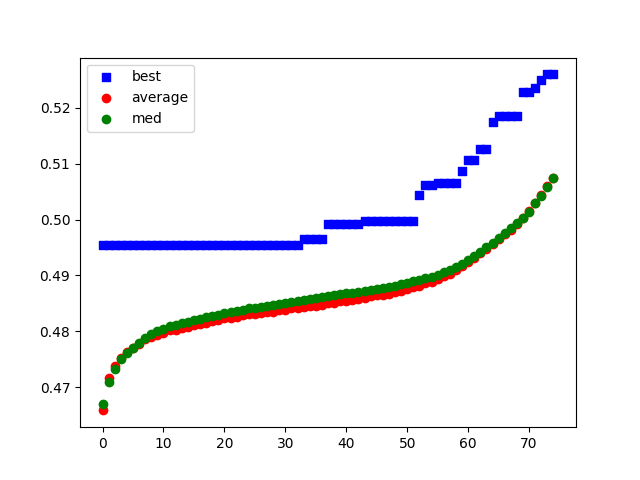
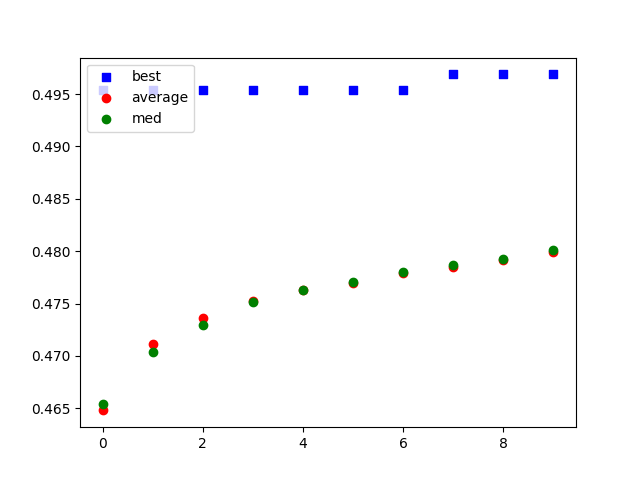
reorganize metrics

diff --git a/genetic_algorithm/initial_population_generator.py b/genetic_algorithm/initial_population_generator.py
@@ -10,31 +10,8 @@ from genetic_algorithm.population import Population
 from genetic_algorithm.chromosome import Chromosome
 from genetic_algorithm.fitness_function import evaluate_network 
 from genetic_algorithm.breeder import breed_networks
-
-class NetworkMetrics:
-    def __init__(self, network: TransitNetwork):
-        self.network = network
-        self.network_id = network.id
-        self.route_ids = [r.id for r in network.routes]
-        self.trip_ids = [t.id for t in network.trips]
-        self.stop_ids = [s.id for s in network.stops]
-
-    @property 
-    def fitness(self):
-        return evaluate_network(self.network)
+from genetic_algorithm.network_metrics import NetworkMetrics
     
-    def similarity(self, other) -> Tuple[float, float, float]:
-        if self.network_id == other.network_id:
-            RootLogger.log_warning('Comparing Networks with identical ids.')
-
-        routes_similarity = (len(set(self.route_ids) & set(other.route_ids)) * 2.0) / (len(self.route_ids) + len(other.route_ids))
-        trips_similarity = (len(set(self.trip_ids) & set(other.trip_ids)) * 2.0) / (len(self.trip_ids) + len(other.trip_ids))
-        stops_similarity = (len(set(self.stop_ids) & set(other.stop_ids)) * 2.0) / (len(self.stop_ids) + len(other.stop_ids))
-
-        return routes_similarity, trips_similarity, stops_similarity
-    
-    
-
 def generate_population(initial_network: TransitNetwork, population_size: int, do_print_metrics: bool = True) -> List[TransitNetwork]:
     RootLogger.log_debug(f'Generating initial population of size {population_size} from {initial_network.id}')
 
@@ -112,5 +89,6 @@ def print_metrics(metrics: Dict[str, float]) -> None:
 
 def initiate_population_from_network(network: TransitNetwork, size: int) -> Population:
     initial_networks = generate_population(network, size)
+    init_network_metrics = NetworkMetrics(network)
     initial_population = [Chromosome(net) for net in initial_networks]
-    return Population(initial_population, evaluate_network, breed_networks)
+    return Population(initial_population, init_network_metrics, evaluate_network, breed_networks)

diff --git a/genetic_algorithm/network_metrics.py b/genetic_algorithm/network_metrics.py
@@ -1,0 +1,28 @@
+from typing import Tuple
+
+from root_logger import RootLogger
+from transit_network.transit_network import TransitNetwork 
+from genetic_algorithm.fitness_function import evaluate_network
+
+class NetworkMetrics:
+    def __init__(self, network: TransitNetwork):
+        # self.network = network
+        self.network_id = network.id
+        self.route_ids = [r.id for r in network.routes]
+        self.trip_ids = [t.id for t in network.trips]
+        self.stop_ids = [s.id for s in network.stops]
+        self.ridership = network.ridership 
+
+        self.num_routes = len(self.route_ids)
+        self.coverage = network.coverage
+        self.fitness = evaluate_network(network)
+    
+    def similarity(self, other) -> Tuple[float, float, float]:
+        if self.network_id == other.network_id:
+            RootLogger.log_warning('Comparing Networks with identical ids.')
+
+        routes_similarity = (len(set(self.route_ids) & set(other.route_ids)) * 2.0) / (len(self.route_ids) + len(other.route_ids))
+        trips_similarity = (len(set(self.trip_ids) & set(other.trip_ids)) * 2.0) / (len(self.trip_ids) + len(other.trip_ids))
+        stops_similarity = (len(set(self.stop_ids) & set(other.stop_ids)) * 2.0) / (len(self.stop_ids) + len(other.stop_ids))
+
+        return routes_similarity, trips_similarity, stops_similarity

diff --git a/genetic_algorithm/population.py b/genetic_algorithm/population.py
@@ -5,6 +5,7 @@ from statistics import mean, median, stdev
 import time
 
 from genetic_algorithm.chromosome import Chromosome
+from genetic_algorithm.network_metrics import NetworkMetrics
 from root_logger import RootLogger
 from utility import pickle_object
 
@@ -17,7 +18,7 @@ class Population:
     mutation_rate = 0.1
     elitist_cutoff = 0.5
 
-    def __init__(self, networks: List[Chromosome], fitness_function, breeding_function):
+    def __init__(self, networks: List[Chromosome], initial_metrics: NetworkMetrics, fitness_function, breeding_function):
         self.population = networks
         self.population_size = len(networks)
         self.fitness_function = fitness_function
@@ -26,6 +27,7 @@ class Population:
         self.performance_dict = {}
         self.per_round_metrics = []
         self.write_to_pickle = pickle_object
+        self.initial_metrics = initial_metrics
         self.done_running = False
     
     def evaluate_population(self):

diff --git a/genetic_algorithm/fitness_function.py b/genetic_algorithm/fitness_function.py
@@ -1,7 +1,7 @@
 from transit_network.transit_network import TransitNetwork
 import genetic_algorithm.params as params
 
-def evaluate_network(net: TransitNetwork):
+def evaluate_network(net: TransitNetwork) -> float:
     # Need to scale these. 
     ridership_val = (net.ridership / params.ORIGINAL_RIDERSHIP) * params.RIDERSHIP_LAMBDA
     routes_val = (len(net.routes) / params.ORIGINAL_ROUTES) * params.NUM_ROUTES_LAMBDA

diff --git a/playground.py b/playground.py
@@ -19,7 +19,7 @@ print(Network)
 # print(net1, net2, net3, net4, net5, net6)
 
 Pop = initiate_population_from_network(Network, 1000)
-res = Pop.run(75)
+res = Pop.run(10)
 filename = Pop.export_metrics()
 plot_all_stats(filename)
 plot_time(filename)
